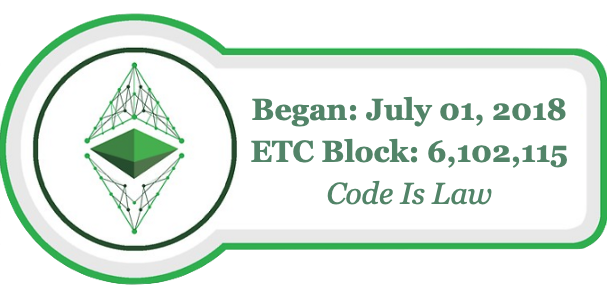
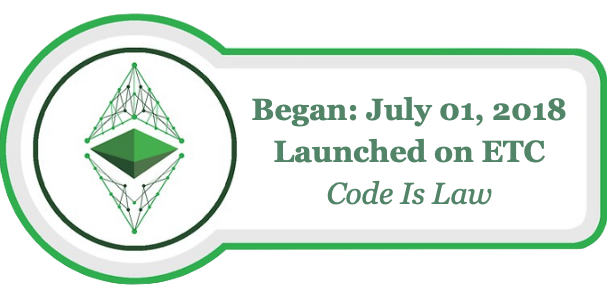
Changed look

Changed region(s): [[0.4152, 0.4383, 0.9489, 0.5552]]

diff --git a/index.html b/index.html
@@ -83,14 +83,14 @@
                     <!-- <img width="250" height="250" class="logo custom-computer only" loop="" src="/img/diamond.gif" alt="Diamond">
                 <img width="50%" height="50%" class="logo mobile only" src="/img/diamond.gif" alt="Diamond"> -->
                     <h3 class="bg-text mobile only" style="margin-top:50px;">Welcome</h3>
-                    <h1 class="bg-text custom-computer only" style="margin-top: 325px;">P3C: <i>Planetary Prosperity</i>
+                    <h1 class="bg-text custom-computer only" style="margin-top: 325px;"><i>Planetary Prosperity</i>
                     </h1>
                     <a href="/use.html" class="dashboard-link ui huge primary opacity-dark"
                         style="margin-bottom: 10px; color: white;">Web Wallet
                         <i class="right arrow icon"></i>
                     </a>
                     <a href="/chart.html" class="dashboard-link ui huge primary opacity-dark"
-                    style="margin-bottom: 10px; color: white;">Chart
+                    style="margin-bottom: 10px; color: white;">Overview
                     <i class="university icon"></i>
                     </a>
                 </div>
@@ -149,18 +149,18 @@
                             </div>
                             <h2 class="feature-title">Change.</h2>
                             <hr class="line">
-                            <h3 style="margin-top:10px;"> Imagine a world where paying for goods and services grows your savings rather than
-                                middlemen's. </h3>
-                            <img class="logo" src="/img/bad.png" alt="Phoenix" style="max-width: 75%">
+                            <img class="logo" src="/img/vault.jpg" alt="Phoenix">
+                            <h3 style="margin-top:10px;">We use a <i>smart contract</i> as a vault for the world's savings.</h3>
                         </div>
-                        <div class="column">
+                        <div class="column" style="padding-top: 0px;">
                             <div class="icon-main">
                                 <i class="fas fa-chart-line"></i>
                             </div>
-                            <h2 class="feature-title">Income.</h2>
+                            <h2 class="feature-title">Money.</h2>
                             <hr class="line">
-                            <h3 style="margin-top:10px;"> Whenever anybody pays or tips with P3C, the entire global network proportionally splits a <i>10%</i> dividend.</h3>
-                            <img class="logo" src="/img/good.png" alt="Phoenix">
+                            <img class="logo mobile only" src="/img/earth.png" alt="Phoenix">
+                            <img class="logo custom-computer only" src="/img/earth-small.png" alt="Phoenix">
+                            <h3 style="margin-top:10px;">The vault pays dividends back to users as the economy grows.</h3>
                         </div>
                         <div class="column">
                             <div class="icon-main">
@@ -168,15 +168,15 @@
                             </div>
                             <h2 class="feature-title">Forever.</h2>
                             <hr class="line">
-                            <h3 style="margin-top:10px;">Each P3C minted increases the next one's price. It's open 24/7 and available anywhere. No hidden fees!</h3>
-                            <img class="logo mobile only" style="width: 100%" src="/img/World.png" alt="Phoenix">
-                            <img class="logo custom-computer only" style="width: 100%" src="/img/World-Small.png" alt="Phoenix">
-
+                            <img class="logo" style="width: 100%" src="/img/team.jpg" alt="Phoenix">
+                            <h3 style="margin-top:10px;">We prosper globally! The vault is usable by all, and always available.</h3>
                         </div>
                     </div>
                 </div>
             </div>
         </div>
+        </div>
+        <br>
         <div style="text-align:center;">
             <div class="center aligned row">
             <a href="https://discord.gg/crjsdJr" target="_blank" class="ui left labeled icon large green button"
@@ -192,8 +192,15 @@
             </div>
         </div>
         <br>
+        <div id="clock" class="ui container">
+                <h1 class="ui header center aligned" style="margin-top: 0px;">When did P3C start?</h1>
+                <a href="https://blockscout.com/etc/mainnet/address/0xde6fb6a5adbe6415cdaf143f8d90eb01883e42ac/contracts" target="_blank">
+                <img class="logo mobile only" style="width: 100%" src="/img/codeislaw.png" alt="Phoenix">
+                <img class="logo custom-computer only" style="width: 60%; margin-bottom: 10px;" src="/img/codeislaw.png" alt="Phoenix">
+                </a>
+            </div>
         <div class="ui container vertical stripe">
-            <h1 class="ui header center aligned">How to Use P3C</h1>
+            <h1 class="ui header center aligned">How do I use P3C?</h1>
             <div class="ui vertical stripe features">
                 <div id="statsContainer" class="ui equal width stackable grid">
                     <div class="center aligned row">
@@ -223,15 +230,6 @@
                 </div>
             </div>
         <br>
-        <div id="clock" class="ui container">
-            <h1 class="ui header center aligned" style="margin-top: 0px;">How long has P3C been running?</h1>
-            <a href="https://blockscout.com/etc/mainnet/address/0xde6fb6a5adbe6415cdaf143f8d90eb01883e42ac/contracts" target="_blank">
-            <img class="logo mobile only" style="width: 100%" src="/img/codeislaw.png" alt="Phoenix">
-            <img class="logo custom-computer only" style="width: 50%" src="/img/codeislaw.png" alt="Phoenix">
-            </a>
-            <br>
-        </div>
-
         <div class="faq">
             <div class="ui container vertical stripe">
                 <h1 class="ui header center aligned" style="margin-top: 10px;">Information</h1>
@@ -250,7 +248,7 @@
                                         <div class="ui segments">
                                             <a href="https://ethereumclassic.org/" target="_blank">
                                                 <div class="ui segment">
-                                                    <h4 style="margin-bottom: 0px;">Learn about Ethereum Classic, the blockchain P3C is built on<i class="right arrow icon"></i></h4>
+                                                    <h4 style="margin-bottom: 0px;">The story of Ethereum Classic, the blockchain P3C uses<i class="right arrow icon"></i></h4>
                                                     <img class="logo mobile only" style="width:100%" src="/img/landing/etc.jpg" alt="Phoenix">
                                                     <img class="logo custom-computer only" style="width:100%" src="/img/landing/etc.jpg" alt="Phoenix">
                                                 </div>
@@ -268,7 +266,7 @@
                                             </a>
                                         </div>
                                         <div class="ui segments">
-                                            <a href="/commonwealth.pdf" target="_blank">
+                                            <a href="/info.html">
                                                 <div class="ui segment">
                                                     <h4 style="margin-bottom: 0px;">Learn about the math and software behind P3C <i class="right arrow icon"></i></h4>
                                                     <img class="logo mobile only" style="width:100%" src="/doc-assets/co.png" alt="Phoenix">

diff --git a/info.html b/info.html
@@ -12,7 +12,6 @@
     <meta property="og:title" content="P3C.io" />
     <meta name="twitter:description" content="Planetary Prosperity is a peer-to-peer algorithmic bank built on Ethereum Classic. P3C holders receive passive income as the system is used. Ditch your bank, go with P3C." />
     <meta property="og:image" content="https://p3c.io/img/coin.png"/>
-    
     <title>P3C Planetary Prosperity</title>
     <meta charset="utf8">
     <meta name="description" content="Fast, passive payments for anyone using Ethereum Classic. Provides a steady source of income for entrepeneuers and nomads. Use algorithms and sound money to plan for the future and gain peace of mind.">
@@ -81,8 +80,7 @@
             </div>
         <div class="faq">
             <div class="ui container vertical stripe">
-                <h1 class="ui header center aligned" style="margin-top: 10px; color: white;">Information</h1>
-                <div id="statsContainer" class="ui equal width stackable grid">
+                <div id="statsContainer" class="ui equal width stackable grid" style="margin-top: 5px;">
                         <div class="center aligned row">
                                 <div class="column" style="padding-bottom: 0px !important;">
                                     <div class="ui segments">
@@ -98,7 +96,7 @@
                                             <a href="https://www.desmos.com/calculator/cwzhckaat">
                                             <div class="ui segment">
                                                 <h4 style="">Q: What is the max supply of P3C?<i class="right arrow icon"></i></h4>
-                                                <h4 style="color: black; text-align: left">There can be at most 204,939,006 (assuming all ETC possible is put in the contract). This will never happen, and the current amount of P3C grows or shrinks depending on the amount of ETC in the vault.</h4>
+                                                <h4 style="color: black; text-align: left">There can be at most 204,939,006 (assuming all ETC possible is locked in the vault). This will never happen, and the current amount of P3C grows or shrinks depending on the amount of ETC in the vault.</h4>
                                             </div>
                                             </a>
                                         </div>
@@ -189,6 +187,7 @@
                     </div>
             </div>
         </div>
+        <br>
         </div>
         <div class="ui inverted vertical footer segment gradient personal">
             <div class="ui container">

diff --git a/chart.html b/chart.html
@@ -314,8 +314,8 @@
                             <div id="sizeStats" class="ui segments">
                                 <a href="https://youtu.be/PuQBHfKVF2I" target="_blank">
                                 <div class="ui segment">
-                                    <h4 style="margin-bottom: 0px;">Start Trading P3C from your Phone<i class="right arrow icon"></i></h4>
-                                    <img class="logo mobile only" style="height: 65%" src="/img/landing/phone.png" alt="Phoenix">
+                                    <h4 style="margin-bottom: 0px;">Start Using P3C from your Phone<i class="right arrow icon"></i></h4>
+                                    <img class="logo mobile only" style="height: 75%" src="/img/landing/phone.png" alt="Phoenix">
                                     <img class="logo custom-computer only" src="/img/landing/phone.png" alt="Phoenix">
                                 </div>
                                 </a>

diff --git a/lib/use.js b/lib/use.js
@@ -76,7 +76,7 @@ $("#transfer").click(function () {
 
 $('#infoButton')
     .popup({
-        content: "Allow bots to compound your dividends in exchange for a referral bonus. This enables faster compounding. You can manually withdraw at any time, but this must be on to use Compound. For greater control, use P3C Pure Interface.",
+        content: "Allow bots to compound your dividends in exchange for a referral bonus. You can manually withdraw at any time, but this must be on to use Compound. For greater control, use P3C Pure Interface.",
         position: 'top center'
     });
 
